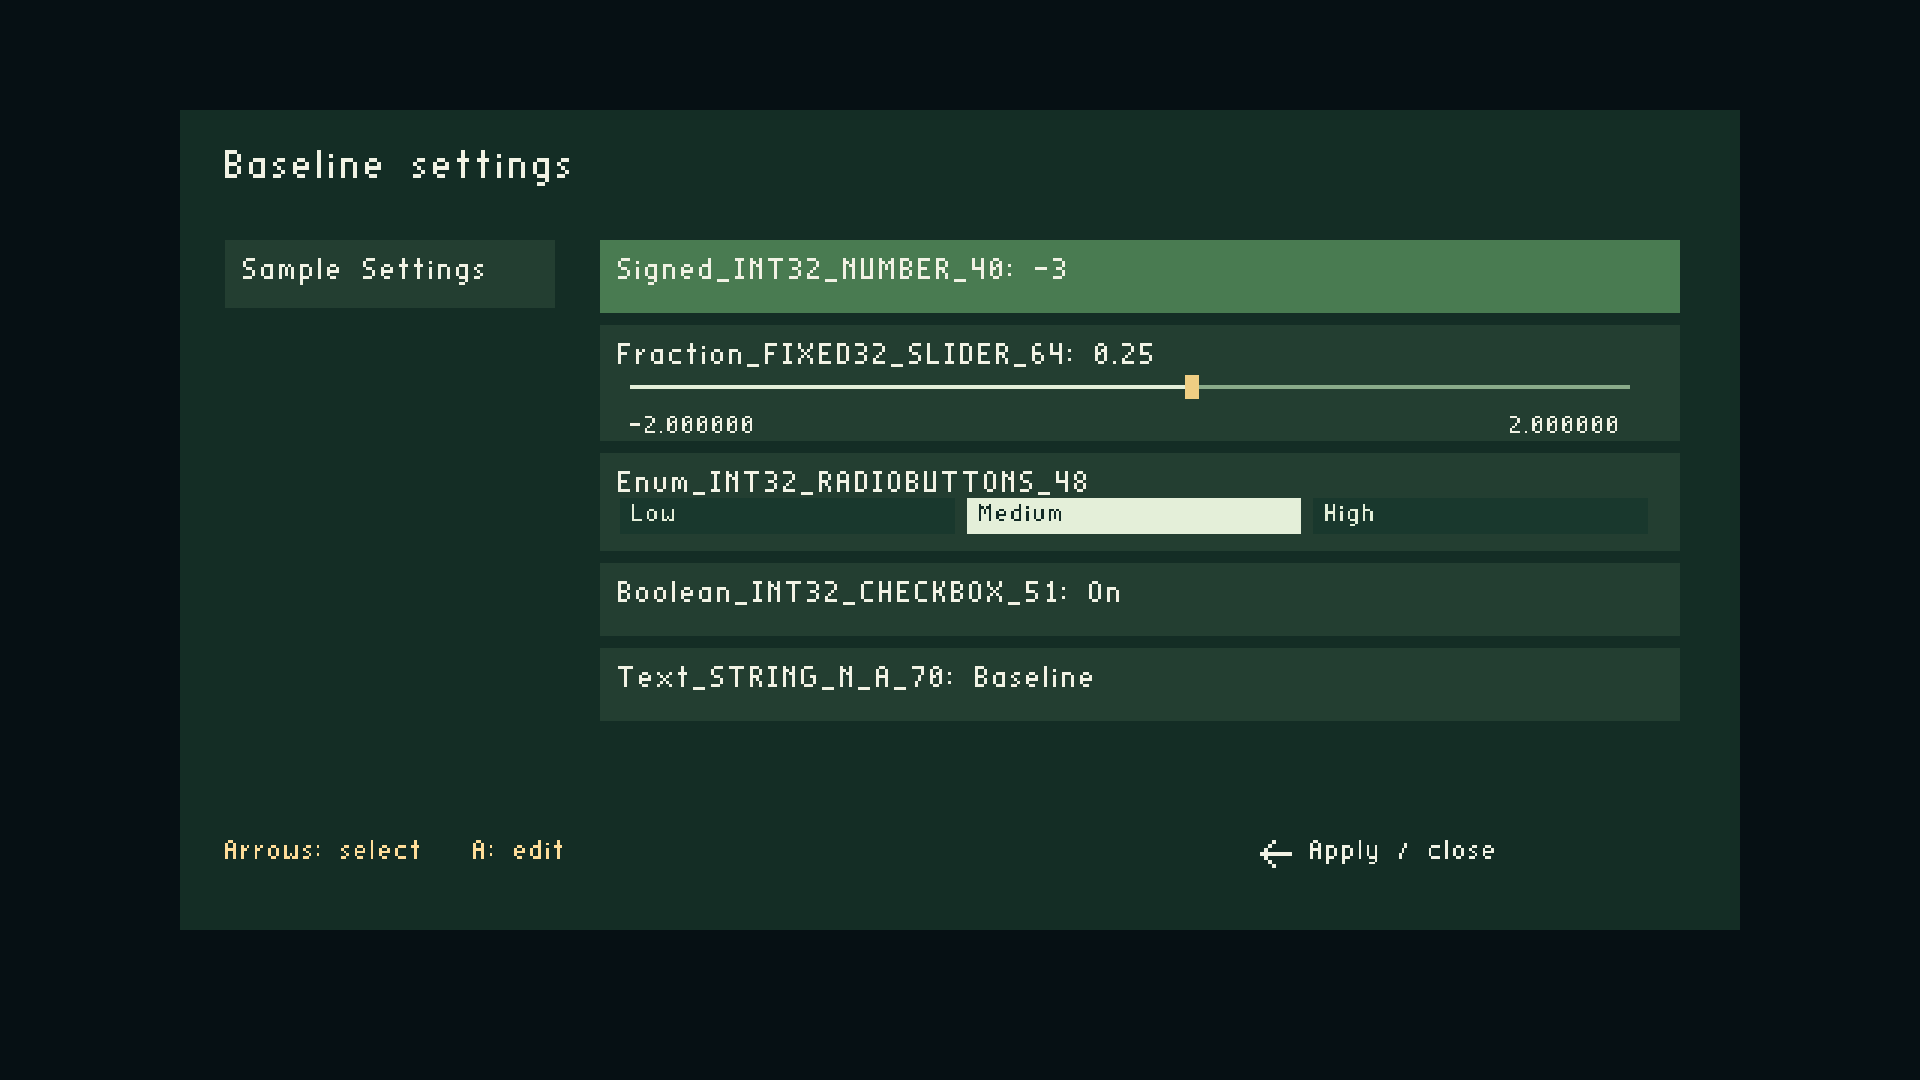
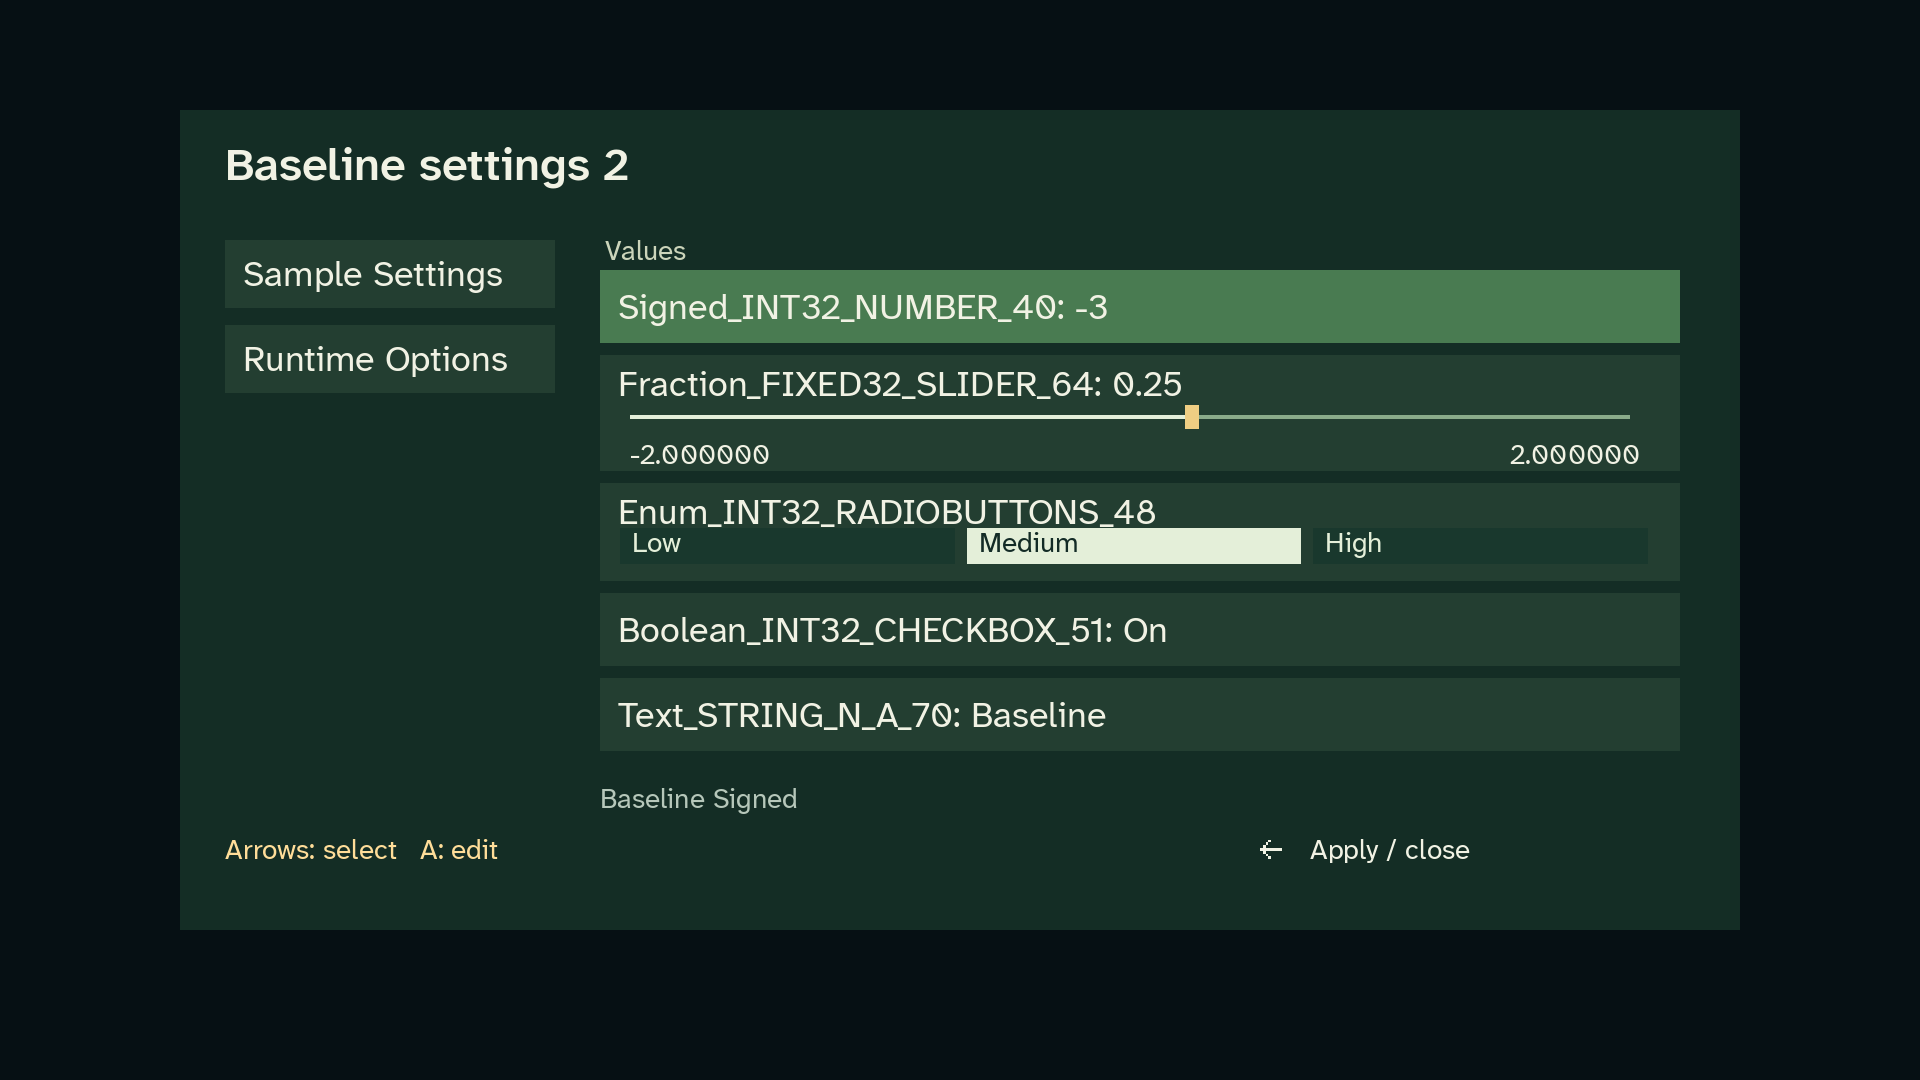
Debug bridge page: show the settings dialog in the current UI font
View 5 used a capture from before the UI font refresh, so it showed the old
low-resolution bitmap font. Replaced with the capture from the refreshed
build (apk-font-refresh-2026-10-19/baseline-settings-cast1-final): the
"Baseline settings 2" dialog with the Runtime Options tab, from a run where
all 21 baseline-checks.json assertions are true. Alt text and plan updated.

Claude-Session: https://claude.ai/code/session_01YEenqRBjdJpGEUgxdZ9651

diff --git a/docs/plans/2026-10-31-world-foundry-debug-bridge-page/bridge-page-narrow.html b/docs/plans/2026-10-31-world-foundry-debug-bridge-page/bridge-page-narrow.html
@@ -68,7 +68,7 @@ These are the ways to look at it: tools that connect to it, and what comes back.
 
 <section class="view"><div class="head"><span class="num">5</span><h2>In-game settings forms</h2><span class="chip ok">Captured on a device</span></div>
 <p class="cap">The settings dialog the engine builds from a level's object-property definitions, as it renders on a Chromecast running the baseline level. Numbers, sliders, choices, toggles and text, navigated with the arrow keys, edited with A and applied with Back.</p>
[2 lines of base64/hex data omitted]
 
 </div>
 </div></body></html>

diff --git a/docs/plans/2026-10-31-world-foundry-debug-bridge-page/bridge-page-desktop.html b/docs/plans/2026-10-31-world-foundry-debug-bridge-page/bridge-page-desktop.html
@@ -60,7 +60,7 @@ These are the ways to look at it: tools that connect to it, and what comes back.
 
 <section class="view"><div class="head"><span class="num">5</span><h2>In-game settings forms</h2><span class="chip ok">Captured on a device</span></div>
 <p class="cap">The settings dialog the engine builds from a level's object-property definitions, as it renders on a Chromecast running the baseline level. Numbers, sliders, choices, toggles and text, navigated with the arrow keys, edited with A and applied with Back.</p>
[2 lines of base64/hex data omitted]
 
 </div>
 </body></html>

diff --git a/docs/plans/2026-10-31-world-foundry-debug-bridge-page.md b/docs/plans/2026-10-31-world-foundry-debug-bridge-page.md
@@ -14,7 +14,7 @@ Five ways to see it ended up on the page (a sixth, a screenshot of the bridge se
 | 2 | `wf-edit` editor | **Existing screenshot**, and **not the TCP bridge** | `engine/wf_edit/engine_bridge.h` describes a separate in-process "CRDT→engine bridge" that calls `wfmut::` directly |
 | 3 | Terminal session | **Captured** | ping, pause, step, watch, set_mailbox, screenshot, resume against a live engine |
 | 4 | Frames captured through the bridge | **Captured** | `frame.png`, written by the bridge's `screenshot` op |
-| 5 | In-game settings dialog | **Captured on a device** (updated after `v0.1.277`; first a placeholder) | `ingame-settings.png`, the "Baseline settings" dialog from `docs/diagnostics/baseline/generic-settings/default-devices-v2/cast1/tv-form-screenshot.png`, a Chromecast HD running the baseline level. The earlier design mockup (`editor.png`, "MOCKUP – NOT SHIPPED") is still not used |
+| 5 | In-game settings dialog | **Captured on a device** (updated after `v0.1.277`; first a placeholder) | `ingame-settings.png`, the "Baseline settings" dialog from `docs/diagnostics/apk-font-refresh-2026-10-19/baseline-settings-cast1-final/tv-form-screenshot.png`, a Chromecast HD running the baseline level with the refreshed UI font (all 21 assertions in that run's `baseline-checks.json` true). The earlier design mockup (`editor.png`, "MOCKUP – NOT SHIPPED") is still not used |
 
 ## Approach
 
@@ -273,3 +273,7 @@ Actual cause: `main.bridge-page` sits in the layout's flex column with `margin: 
     ```
 
     **PASS**: no page scrolls sideways at 390 px. A full-page phone-width screenshot, scrolled so the lazy images load, shows all five views fitting the screen with the transcript scrolling inside its own box.
+
+## Update: view 5 re-captured with the current font
+
+Will pointed out that the view 5 screenshot used the old low-resolution bitmap font. It came from `generic-settings/default-devices-v2`, captured before the UI font refresh. It is replaced by the capture from the refreshed build (`apk-font-refresh-2026-10-19/baseline-settings-cast1-final`), which uses the current font and shows the dialog as it ships now: titled "Baseline settings 2", with a Runtime Options tab beside Sample Settings. The alt text was updated to match. No other step changes.

diff --git a/docs/plans/.history/2026-10-31-world-foundry-debug-bridge-page.md b/docs/plans/.history/2026-10-31-world-foundry-debug-bridge-page.md
@@ -1,9 +1,15 @@
 | Date | Change |
 |------|--------|
+| [2026-10-31](https://github.com/wbniv/indri.studio/commit/8d6327f) | Debug bridge page: real settings dialog, drop view 6, fix phone overflow |
 | [2026-10-31](https://github.com/wbniv/indri.studio/commit/60a01a2) | Record debug-bridge page verification; index the plan; mark done |
 | [2026-10-31](https://github.com/wbniv/indri.studio/commit/d74480f) | Add World Foundry debug bridge page; icon rows in the bridge section |
 
 <!--history-meta v1
+8d6327f	author	Will Norris
+8d6327f	added	78
+8d6327f	deleted	12
+8d6327f	files	1
+8d6327f	body	- View 5 is now the engine's real "Baseline settings" dialog, captured on a\n  Chromecast HD running the baseline level, replacing the placeholder.\n- View 6 ("This page, in the wild") is removed: it only pictured the page\n  that links here. The page has five views and no placeholders.\n- Phone width: the page measured 560 px on a 390 px screen. The container\n  sits in the layout's flex column with auto margins and sized itself from\n  its content (the transcript's unwrapped lines), so it now has width: 100%.\n  An earlier fix (min-width: 0, image max-width) did not cure it; the new\n  guard caught that.\n- scripts/check-mobile-overflow.mjs loads pages at 390 px in headless\n  Chrome and exits 1 on horizontal overflow. Run against the buggy build\n  (FAIL), the first fix (FAIL) and the final build (PASS).\n- Gallery on the World Foundry page: cropped the black padding baked into\n  the Star + Fire screenshot (640x640 -> 640x322) and the treemap's border.\n\nCo-Authored-By: Claude Sonnet 5.5 <noreply@anthropic.com>\nClaude-Session: https://claude.ai/code/session_01YEenqRBjdJpGEUgxdZ9651
 60a01a2	author	Will Norris
 60a01a2	added	64
 60a01a2	deleted	3
